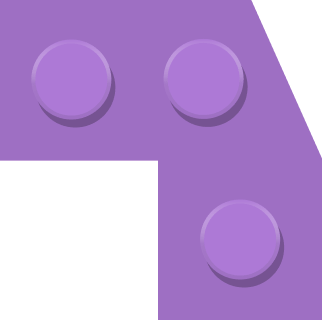
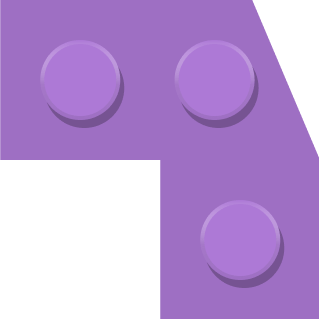
change pics

diff --git a/src/components/screens/Game3/index.js b/src/components/screens/Game3/index.js
@@ -14,8 +14,8 @@ const PictureWrapper = styled.div`
     display: flex;
     justify-content: center;
     align-items: center;
-    width: ${({$ratio}) => $ratio * 345}px;
-    height: ${({$ratio}) => $ratio * 299}px;
+    width: ${({$ratio}) => $ratio * 341}px;
+    height: ${({$ratio}) => $ratio * 286}px;
     margin: 0 auto;
     overflow: hidden;
 `;
@@ -95,7 +95,9 @@ export const Game3 = () => {
         } 
 
         if (puzzle.isOnlyPosition && (!puzzle.correctX?.includes(dropX) || !puzzle.correctY?.includes(dropY))) {
-            return;
+            if ((puzzle.id === 6 && !(dropY === 1 && dropX === 7))) return;
+            if ((puzzle.id === 4 && !(dropY === 0 && dropX === 4))) return;
+            if (puzzle.id !== 6 && puzzle.id !== 4) return;
         }
 
         const shownIndex = puzzles.current.shownPuzzles.findIndex(({id}) => id === puzzle.id);
@@ -172,11 +174,11 @@ export const Game3 = () => {
                 <Picture src={photo} alt={""} $ratio={ratio}/>
                 <PuzzleField 
                     cells={cells} 
-                    top={37} 
-                    width={325} 
-                    left={10} 
+                    top={32.5} 
+                    width={324} 
+                    left={9} 
                     border={15} 
-                    height={247} 
+                    height={242} 
                     columns={COLUMNS} 
                     rows={ROWS}
                     onDrop={handleDrop}

diff --git a/src/components/screens/Game2/index.js b/src/components/screens/Game2/index.js
@@ -14,8 +14,8 @@ const PictureWrapper = styled.div`
     display: flex;
     justify-content: center;
     align-items: center;
-    width: ${({$ratio}) => $ratio * 345}px;
-    height: ${({$ratio}) => $ratio * 299}px;
+    width: ${({$ratio}) => $ratio * 344}px;
+    height: ${({$ratio}) => $ratio * 302}px;
     margin: 0 auto;
     overflow: hidden;
 `;
@@ -170,11 +170,11 @@ export const Game2 = () => {
                 <Picture src={plane} alt={""} $ratio={ratio}/>
                 <PuzzleField 
                     cells={cells} 
-                    top={8} 
-                    width={320} 
+                    top={9} 
+                    width={322} 
                     left={7} 
                     border={18} 
-                    height={281} 
+                    height={282} 
                     columns={COLUMNS} 
                     rows={ROWS}
                     onDrop={handleDrop}

diff --git a/src/components/screens/Game2/initialPuzzles.js b/src/components/screens/Game2/initialPuzzles.js
@@ -61,8 +61,8 @@ export const initialPuzzles = [
         srcStart: puzzle4_2_start,
         puzzWidth: 34,
         puzzHeight: 34,
-        puzzRealHeight: 40,
-        puzzRealWidth: 46,
+        puzzRealHeight: 41,
+        puzzRealWidth: 47,
         line: 1,
         isOnlyPosition: true,
     },
@@ -119,7 +119,6 @@ export const initialPuzzles = [
         correctX: [4],
         correctY: [4],
         puzzWidth: 63,
-        puzzRealWidth: 82,
         src: puzzle8_2,
         srcStart: puzzle8_2_start,
         line: 2,

diff --git a/src/constants/screens.js b/src/constants/screens.js
@@ -11,7 +11,7 @@ import casePic from '../assets/images/case.png';
 import helpHand from '../assets/images/helpHand.png';
 import photo from '../assets/images/photo.png';
 import plane from '../assets/images/plane.png';
-import caseStart from '../assets/images/caseStart.svg';
+import caseStart from '../assets/images/caseStart.png';
 import info from '../assets/images/info.svg';
 import photoStart from '../assets/images/photoStart.svg';
 import planeStart from '../assets/images/planeStart.svg';

diff --git a/src/components/screens/Game3/initialPuzzles.js b/src/components/screens/Game3/initialPuzzles.js
@@ -36,6 +36,7 @@ export const initialPuzzles = [
         startTop: 0,
         src: puzzle1_3,
         srcStart: puzzle1_3_start,
+        puzzRealHeight: 81,
         isOnlyPosition: true,
         nearCells: {
             x: [1, 0, 2],
